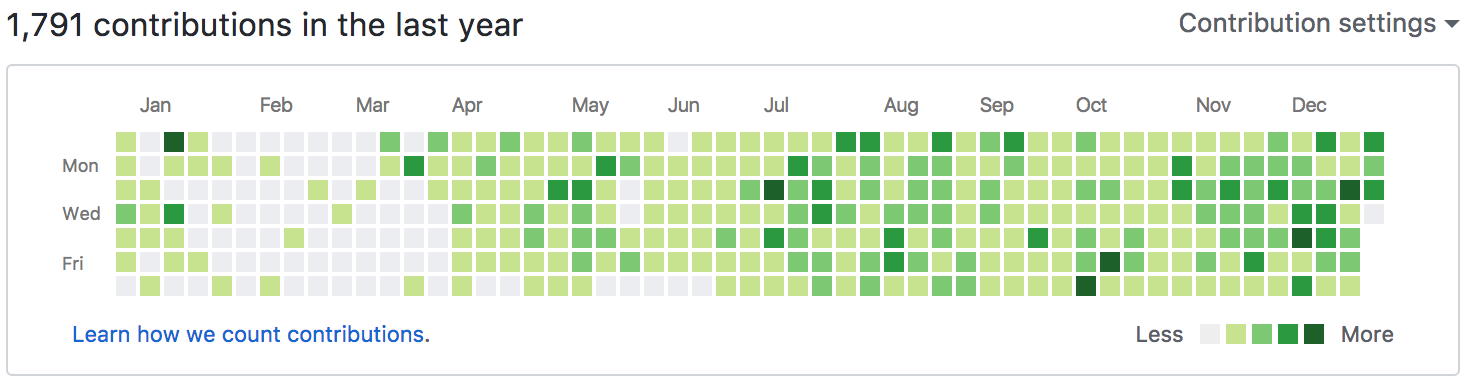
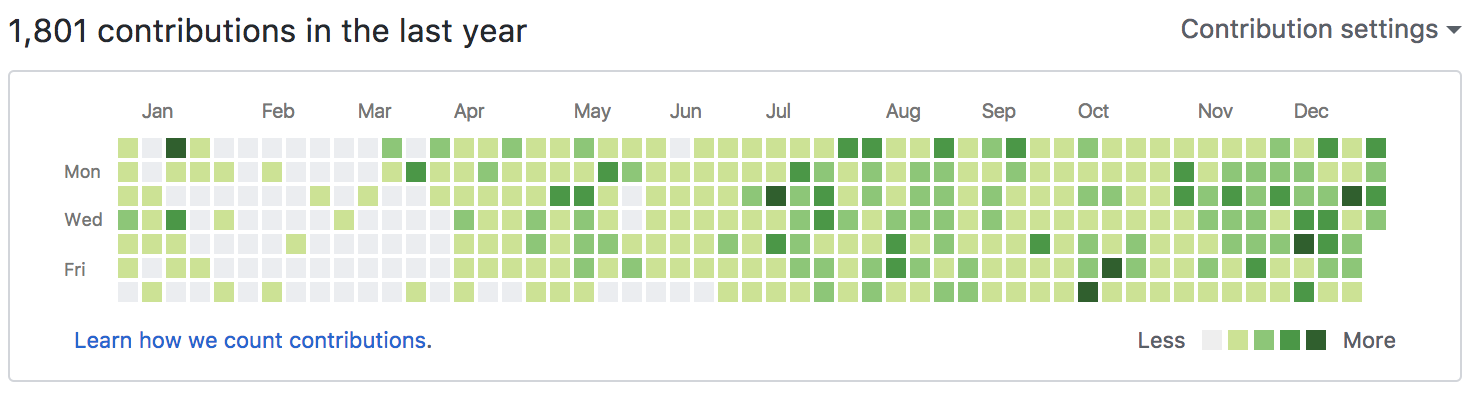
:sparkles: Edited

diff --git a/content/post/2017/12/27/retrospective-on-github.md b/content/post/2017/12/27/retrospective-on-github.md
@@ -51,6 +51,7 @@ https://github.com/budougumi0617/Testable
 https://www.nuget.org/packages/budougumi0617.Testable  
 
 `.NET`のテストサポートツール。privateなメソッドやフィールドを無理やりテストできる。  
+最初は`.NET Standard1.3`ベースだったのだが、リフレクション周りでどうしても`1.6`になってしまった。CIは`AppVeyor`を使っている。`.NET Standard`なので、本当はLinuxコンテナでもビルドできるのだが、やはり`.NET`系のビルドは`AppVeyor`が楽だ。  
 このOSSについてはまたどこかでちゃんと触れておきたい。  
 Nugetのサイトで見ると500弱ダウンロードされたようだ（累計）  
 どこかで役に立っているのがわかるのは嬉しい。
@@ -64,7 +65,8 @@ https://github.com/budougumi0617/msstore-go
 
 
 上記のREST APIに対するクライアントを作っている。
-機能が足りないのはもちろんだが、テスト書いたり、共通化とか出来ていないので、1月中に完成させておきたい。
+機能が足りないのはもちろんだが、テスト書いたり、共通化とか出来ていないので、1月中に完成させておきたい。  
+コピペの設定だがCircleCI2.0を使ってみた。
 
 deeetさんが「[API Clientは最初に書くGolang パッケージとしても良いと思う．](http://deeeet.com/writing/2016/11/01/go-api-client/)」と言っていたが、たしかに勉強になる。
 
@@ -104,7 +106,7 @@ https://github.com/budougumi0617/blog/blob/master/deploy.sh
 
 https://github.com/budougumi0617/RubyTraining
 
-以下の本の写経。（`koans`と楽しいRubyの練習問題も入っている。
+以下の本の写経。（`koans`と楽しいRubyの練習問題も入っている。）
 
 [実践Ruby on Rails 4 現場のプロから学ぶ本格Webプログラミング](http://amazon.jp/dp/B00LBPDNSY).  
 [実践Ruby on Rails 4 機能拡張編](http://amazon.jp/dp/B00MWK10CS).
@@ -125,19 +127,20 @@ GoのWebプログラミングを押さえておきたかったので。練習問
 ## gopl
 https://github.com/budougumi0617/gopl
 
-この本の写経。
+ここ数年の立ち向かっているgoplの練習問題。
 
 [プログラミング言語Go](http://amazon.jp/dp/4621300253)
 
-勉強会で終わらなかった練習問題を少しずつ解いている。あと５問くらい。今年こそ完結させるつもりだったがだめだった…  
-途切れ途切れでやっているし、大半は1.6ベースで書いているので、全部終わったら改めて1からやり直したい。  
-プログラミング言語GoはツールとかWebプログラミングしようと当時あまり理解できなかったところ（忘れてしまったところ）を改めて理解している。連休とかで時間作ってあらためてじっくり読みたい。  
+前職在職中の勉強会で終わらなかった練習問題を少しずつまだ解いている。あと５問くらい。今年こそ完結させるつもりだったがだめだった…  
+途切れ途切れでやっているし、大半は1.6ベースで書いているので、全部終わったら改めて1からやり直さないといけない気がする。  
+プログラミング言語Goという本は、ツールとかWebプログラミングしようと読み返すたびに当時あまり理解できなかったところ（忘れてしまったところ）に改めて気付かされる。  
 
 ## ElixirTraining
 https://github.com/budougumi0617/ElixirTraining
 
 日曜にやっている[AOSN勉強会](https://aosn.ws/)の教材。自分にとって初めての関数型言語で学びが大きい。  
-もう少しで終わる。これが終わったあとの勉強会の次の題材は選定中。自分としては`Haskell`と`Machine Learning With Go`を挙げているのでどちらかになると嬉しいなあ
+新しい言語を覚えるときにREPLがあるのは試し試しが出来て捗る。  
+一通り練習問題を解いていて、もう少しで終わる。これが終わったあとの勉強会の次の題材は選定中。自分としては`Haskell`と`Machine Learning With Go`を挙げているのでどちらかになると嬉しいなあ
 
 ## gsp
 
@@ -147,25 +150,27 @@ https://github.com/budougumi0617/gsp
 
 [Goならわかるシステムプログラミング](https://amazon.jp/dp/4908686033)
 
-Goのリハビリも兼ねて。継続中。練習問題が前半の章にしかなかったので、写経しつつメモ足すって感じで進めている。
+Goのリハビリと`vim-go`の運指を慣らすのも兼ねて。練習問題が前半の章にしかなかったので、写経しつつメモ足すって感じで進めている。継続中。
 
 --- 
 
 # Activity
 2017年のコミット履歴。
 
-## Publicなコミットのみ
-![Public only](/2017/12/glass-all-2017.png)
+https://github.com/budougumi0617/
+
+## Publicなコミット =  1,051コミット
+![Public and Private](/2017/12/glass-only-public-2017.png)
 
 6月になってから毎日コミットするぞ！と決めて、一応毎日コミットできた。一部の日は旅先でスマホからREADME更新しただけとかもあるけど。。。  
 とは言え大半は写経のコミット。「毎日コミットしているって何作ってるんすか？」って聞かれてちょっと恥ずかしくなったのを覚えている。
 なのでもう少し本当の意味での「プログラミング」のコミットをしないと。
 
 
-## PublicとPrivateも合わせたもの
-![Public and Private](/2017/12/glass-only-public-2017.png)
+## Public + Privateなコミット =  1,801コミット
+![Public only](/2017/12/glass-all-2017.png)
 
-業務中のコミット量が全然少ないので来年はもっとコード書かないと、組織に貢献すべき会社員としても、エンジニアとしての日中の過ごし方としても、危機感を感じている。。。
+業務中のコミット量が全然少ないので来年はもっとコード書かないと、組織に所属するエンジニアとして非常にまずい。
 
 
 --- 
@@ -180,6 +185,7 @@ Goのリハビリも兼ねて。継続中。練習問題が前半の章にしか
 ## Problem
 - コードでコントリビュート出来ていない
 - 写経のコミットが大半
+- 業務でももっとコード書かないと。
 
 ## Try
 - もっとコードでOSSに貢献する
